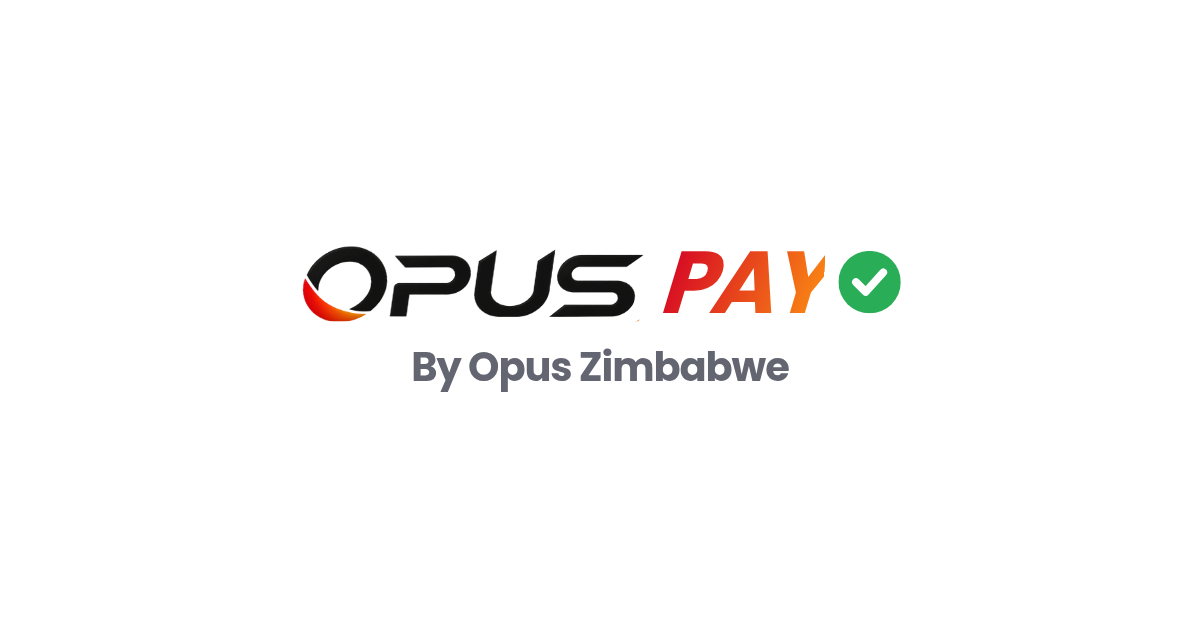
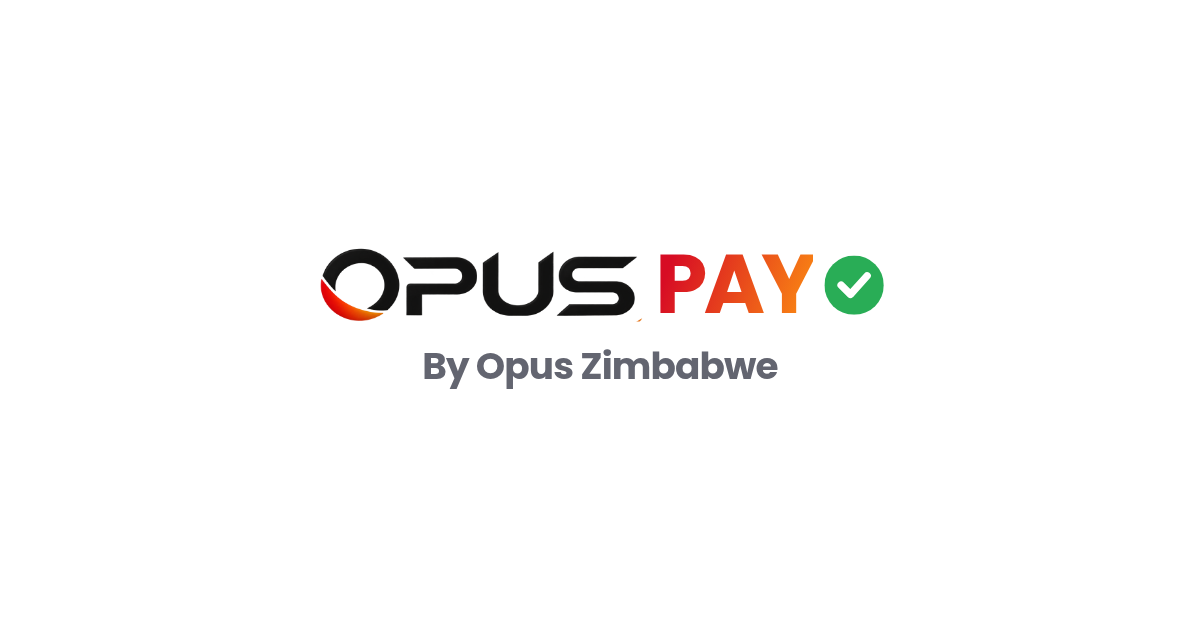
Make Opus Pay compact across screen sizes and restore upright branding

Changed region(s): [[0.2467, 0.3921, 0.7708, 0.5127], [0.3392, 0.5429, 0.6783, 0.6333]]

diff --git a/components/opus-pay.css b/components/opus-pay.css
@@ -108,3 +108,104 @@
 .opus-pay-page .opus-pay-footer a{font-size:inherit;line-height:1.5;flex:none}
 .opus-pay-page .opus-pay-footer small{width:100%;max-width:none;margin:0 auto;text-align:center}
 @media(max-width:700px){.opus-pay-page .opus-pay-footer{font-size:11px}.opus-art-zimswitch{transform:scale(.62)}.opus-art-omari{transform:scale(.62)}}
+/* Compact, viewport-aware layout: preserve the notched design without filling
+   the screen with oversized surfaces, including on short/zoomed desktops. */
+.opus-pay-page{padding:0 24px 28px}
+.opus-pay-page .opus-pay-sheet{width:min(760px,100%)}
+.opus-pay-header{height:140px;padding-top:30px}
+.opus-pay-brand{width:270px;max-width:75vw}
+.opus-pay-wordmark{width:270px;height:40px;gap:5px;transform:none}
+.opus-pay-original{width:149px;height:34px;transform:none}
+.opus-pay-original img{width:161px;left:-6px;top:-2px}
+.opus-pay-pay{font-size:38px;letter-spacing:-1.8px;font-style:normal;transform:none;font-weight:700}
+.opus-pay-wordmark>svg{width:27px;height:27px;margin-left:0}
+.opus-pay-attribution{font-size:17px;letter-spacing:-.4px;margin-top:2px}
+.opus-method-group{height:160px;padding:49px 34px 15px}
+.opus-mobile-group{height:235px;margin-top:32px;padding-top:52px}
+.opus-group-title{font-size:20px!important;line-height:32px!important;top:0;letter-spacing:-.4px}
+.opus-notch{filter:drop-shadow(0 13px 15px #2f354523)}
+.opus-logo-grid{row-gap:10px}
+.opus-method-button{width:152px;height:76px;padding:7px 10px;border-radius:0 0 11px 0}
+.opus-provider-art{transform:scale(.7)}
+.opus-art-mastercard,.opus-art-innbucks,.opus-art-telecash{transform:scale(.64)}
+.opus-art-zimswitch,.opus-art-omari{transform:scale(.7)}
+.opus-pay-footer{max-width:760px;margin-top:44px;font-size:12px}
+.opus-pay-footer small{font-size:11px}
+.opus-footer-rule{width:55px;height:3px;margin-bottom:15px}
+.opus-pay-page:has(.opus-detail-card) .opus-pay-header{height:120px;padding-top:25px}
+.opus-pay-page .opus-detail-card{max-width:520px;padding:24px 32px}
+.opus-selected-method{min-height:42px;margin-bottom:12px}
+.opus-selected-method .opus-provider-art{transform-origin:left center}
+.opus-pay-page .opus-detail-card h1{font-size:21px;margin-bottom:18px}
+.opus-reference-field{margin-bottom:15px}
+@media(min-width:701px) and (max-height:760px){
+ .opus-pay-header{height:105px;padding-top:20px}
+ .opus-method-group{height:140px;padding-top:40px;padding-bottom:11px}
+ .opus-mobile-group{height:200px;margin-top:25px;padding-top:43px}
+ .opus-method-button{height:66px}
+ .opus-pay-footer{margin-top:30px}
+ .opus-pay-page{padding-bottom:22px}
+}
+@media(max-width:700px){
+ .opus-pay-page{padding:0 18px 22px}
+ .opus-pay-page .opus-pay-sheet{width:min(440px,100%)}
+ .opus-pay-header{height:119px;padding-top:24px}
+ .opus-pay-brand,.opus-pay-wordmark{width:245px;max-width:100%;height:auto}
+ .opus-pay-wordmark{height:36px;gap:4px}
+ .opus-pay-original{width:134px;height:31px}
+ .opus-pay-original img{width:145px;left:-5px;top:-2px}
+ .opus-pay-pay{font-size:34px;letter-spacing:-1.5px}
+ .opus-pay-wordmark>svg{width:24px;height:24px}
+ .opus-pay-attribution{font-size:15px;line-height:21px}
+ .opus-method-group{height:145px;padding:42px 7px 11px}
+ .opus-mobile-group{height:215px;margin-top:28px;padding-top:46px}
+ .opus-group-title{font-size:12px!important;line-height:29px!important;letter-spacing:-.3px}
+ .opus-card-group .opus-group-title{font-size:17px!important}
+ .opus-logo-grid{row-gap:7px}
+ .opus-method-button{width:100%;height:65px;padding:5px 2px}
+ .opus-provider-art{transform:scale(.5)}
+ .opus-art-mastercard,.opus-art-innbucks,.opus-art-telecash{transform:scale(.43)}
+ .opus-art-zimswitch,.opus-art-omari{transform:scale(.5)}
+ .opus-art-ecocash{transform:scale(.48)}
+ .opus-art-pos2u{transform:scale(.49)}
+ .opus-art-onemoney{transform:scale(.52)}
+ .opus-pay-footer{margin-top:39px;font-size:10px}
+ .opus-pay-page .opus-pay-footer p{gap:6px}
+ .opus-pay-footer small{font-size:9px}
+ .opus-footer-rule{width:43px;height:3px;margin-bottom:13px}
+ .opus-pay-page:has(.opus-detail-card) .opus-pay-header{height:110px;padding-top:20px}
+ .opus-pay-page .opus-detail-card{padding:22px 20px}
+}
+@media(min-width:701px) and (max-height:780px){
+ .opus-pay-header{height:102px;padding-top:19px}
+ .opus-method-group{height:140px;padding-top:43px;padding-bottom:12px}
+ .opus-mobile-group{height:195px;margin-top:26px;padding-top:45px}
+ .opus-method-button{height:65px}
+ .opus-pay-footer{margin-top:30px;font-size:11px}
+ .opus-pay-footer small{font-size:10px}
+ .opus-footer-rule{margin-bottom:12px}
+ .opus-pay-page{padding-bottom:20px}
+}
+@media(min-width:701px) and (max-height:680px){
+ .opus-pay-header{height:82px;padding-top:12px}
+ .opus-method-group{height:120px;padding-top:38px;padding-bottom:9px}
+ .opus-mobile-group{height:168px;margin-top:24px;padding-top:39px}
+ .opus-logo-grid{row-gap:4px}
+ .opus-method-button{height:55px}
+ .opus-provider-art{transform:scale(.61)}
+ .opus-art-mastercard,.opus-art-innbucks,.opus-art-telecash{transform:scale(.56)}
+ .opus-art-zimswitch,.opus-art-omari{transform:scale(.61)}
+ .opus-pay-footer{margin-top:24px}
+ .opus-footer-rule{margin-bottom:10px}
+ .opus-pay-page{padding-bottom:18px}
+}
+@media(max-width:700px) and (max-height:680px){
+ .opus-pay-header{height:100px;padding-top:17px}
+ .opus-method-group{height:128px;padding-top:39px;padding-bottom:8px}
+ .opus-mobile-group{height:185px;margin-top:24px;padding-top:42px}
+ .opus-logo-grid{row-gap:3px}
+ .opus-method-button{height:58px}
+ .opus-pay-footer{margin-top:28px}
+ .opus-footer-rule{margin-bottom:10px}
+ .opus-pay-page{padding-bottom:16px}
+}

diff --git a/components/PaymentMethodPicker.tsx b/components/PaymentMethodPicker.tsx
@@ -28,7 +28,7 @@ export function motionAllowed(){
 function Notch({wide=false}:{wide?:boolean}){
  const ref=useRef<SVGSVGElement>(null),[size,setSize]=useState({width:1084,height:wide?336:240});
  useEffect(()=>{const el=ref.current;if(!el)return;const observer=new ResizeObserver(entries=>{const r=entries[0].contentRect;setSize({width:r.width,height:r.height})});observer.observe(el);return()=>observer.disconnect()},[]);
- const {width:w,height:h}=size,depth=w<600?42:46,n=Math.min(w-100,wide?590:260),left=(w-n)/2,right=(w+n)/2,r=24;
+ const {width:w,height:h}=size,depth=w<600?33:36,n=Math.min(w-80,wide?440:205),left=(w-n)/2,right=(w+n)/2,r=w<600?19:20;
  return <svg className="opus-notch" ref={ref} viewBox={`0 0 ${w} ${h}`} preserveAspectRatio="none" aria-hidden="true"><path d={`M ${r} 0 H ${left-20} Q ${left-5} 0 ${left+2} 16 L ${left+10} ${depth-13} Q ${left+16} ${depth} ${left+32} ${depth} H ${right-32} Q ${right-16} ${depth} ${right-10} ${depth-13} L ${right-2} 16 Q ${right+5} 0 ${right+20} 0 H ${w-r} Q ${w} 0 ${w} ${r} V ${h-r} Q ${w} ${h} ${w-r} ${h} H ${r} Q 0 ${h} 0 ${h-r} V ${r} Q 0 0 ${r} 0 Z`} fill="white"/></svg>;
 }
 export default function PaymentMethodPicker({methods,loading,error,onRetry,onSelect,disabled=false}:{methods:LocalMethod[];loading:boolean;error:string;onRetry:()=>void;onSelect:(method:LocalMethod)=>void;disabled?:boolean}){

diff --git a/ops/activation/deploy-opus-pay.py b/ops/activation/deploy-opus-pay.py
@@ -10,7 +10,7 @@ ROOT = pathlib.Path(__file__).resolve().parents[2]
 ACCOUNT = 'bfdd1ae2b409f941958f78ea99348c2e'
 PROJECT = 'opuszimbabwe'
 DATABASE = '885cb934-939a-4080-a48f-40901a111cc2'
-BASELINE = '9ede74a7-6361-4bd6-8490-97e3b7ed7ffd'
+BASELINE = '022dbbd9-eded-4d06-8e67-9ca6f491ff43'
 API = 'https://api.cloudflare.com/client/v4'
 PREFIX = f'/accounts/{ACCOUNT}/pages/projects/{PROJECT}'
 RELEASE = pathlib.Path('/tmp/opus-pay-release')

diff --git a/ops/activation/OPUS-PAY.md b/ops/activation/OPUS-PAY.md
@@ -66,3 +66,13 @@ wordmark reconstruction pending an original downloadable vector. The supplied
 chat images are visual references; their original attachment files are not
 mounted in this workspace. The merchant lockup uses the existing Opus artwork
 and a typeset Pay extension. Poppins' OFL license is shipped with the fonts.
+
+## Compact responsive revision
+
+The selector now caps desktop card width at 760px. Surface heights, logo artwork,
+heading sizes and header/footer spacing shrink together on short windows and
+small screens. The merchant logo uses upright lettering with no added skew or
+italic styling. `npm run test:checkout:viewports` checks 13 sizes from 320×568 to
+1920×1080, including a 1280×640 desktop viewport representative of browser zoom.
+All initial selectors fit without scrolling at those tested sizes; payment forms
+may scroll naturally when a mobile keyboard is open.
